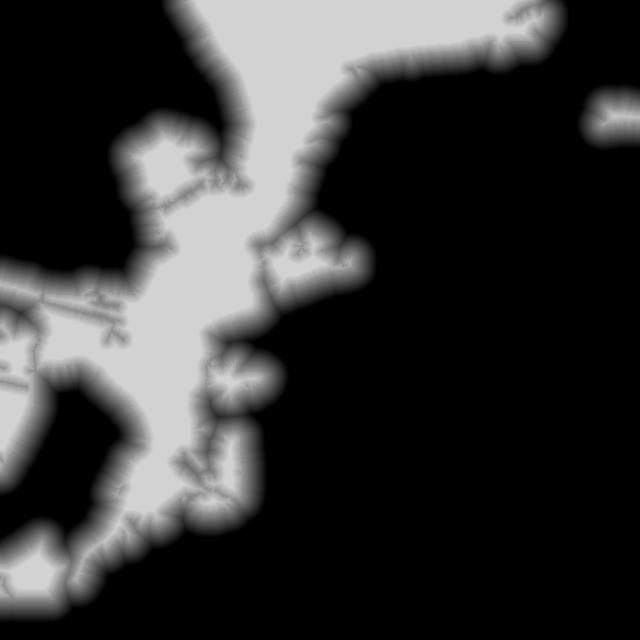
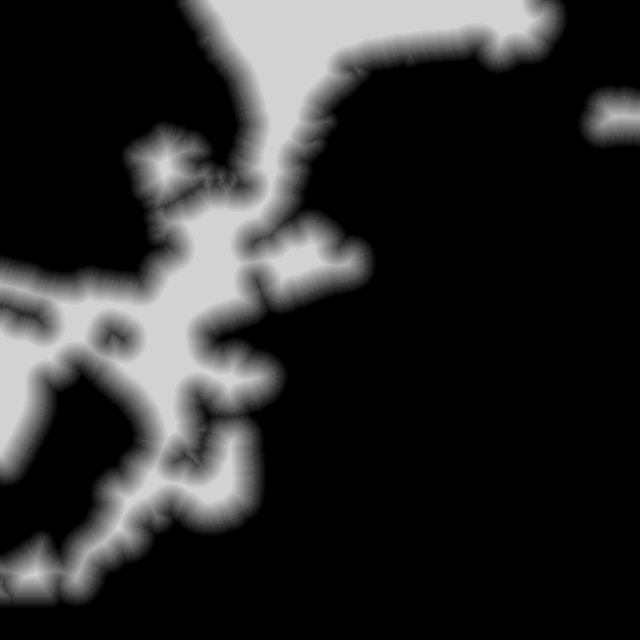
Kieler Förde: Küste näher am Original (nur zu schmale Stellen verbreitert), Marken und Stege neu gesetzt
Claude-Session: https://claude.ai/code/session_01CYKFT46nVq6NPqsP2qzNXm

diff --git a/tools/chart_to_depth.py b/tools/chart_to_depth.py
@@ -63,12 +63,27 @@ w = water[yy, xx]
 outside = (ys[:, None] >= H) | (xs[None, :] >= W) | (ys[:, None] < 0) | (xs[None, :] < 0)
 w = np.where(outside, False, w)
 
-# Wasserwege verbreitern: Land um "erode" Meter zurückziehen
+# Nur zu schmale Wasserwege verbreitern (Enge, Kanäle), breite Buchten behalten die Küste der Karte:
+# Was beim Öffnen mit einer Scheibe von min_width Durchmesser verschwindet, ist zu schmal.
+e = cfg.get("erode", 0.0)
+min_w = cfg.get("min_width", 70.0)
+def disk(r_cells):
+    r = int(round(r_cells))
+    yy, xx = np.mgrid[-r:r + 1, -r:r + 1]
+    return (xx * xx + yy * yy) <= r * r
+if e > 0.0:
+    wide = ndi.binary_opening(w, structure=disk(min_w * 0.5 / cell))
+    narrow = w & ~wide
+    nl, nn = ndi.label(narrow)
+    if nn:
+        sizes = ndi.sum(np.ones_like(nl), nl, index=np.arange(1, nn + 1))
+        keep = np.isin(nl, [i + 1 for i, sz in enumerate(sizes) if sz > 350])
+    else:
+        keep = narrow
+    w = w | (ndi.binary_dilation(keep, structure=disk(e / cell)) & ~w & ndi.binary_dilation(w, structure=disk(e / cell)))
 dist_land = ndi.distance_transform_edt(w) * cell        # Abstand zum Land (Wasserzellen)
 dist_water = ndi.distance_transform_edt(~w) * cell      # Abstand zum Wasser (Landzellen)
-e = cfg.get("erode", 0.0)
-sd = np.where(w, dist_land + e, -(dist_water - e))      # vorzeichenbehaftet: + Wasser, - Land
-sd = np.where(~w & (dist_water <= e), np.abs(dist_water - e) * 0 + (e - dist_water), sd)
+sd = np.where(w, dist_land, -dist_water)                # vorzeichenbehaftet: + Wasser, - Land
 slope = cfg.get("slope", 0.1)                           # Meter Tiefe je Meter Abstand
 depth = -0.8 + sd * slope
 depth = np.clip(depth, -8.0, cfg.get("max_depth", 14.0))

diff --git a/docs/skripte/werkzeuge.md b/docs/skripte/werkzeuge.md
@@ -119,7 +119,7 @@ Siehe [Klang](klang.md#tools-make-audio-py).
 |---|---|
 | `tools/export_dehler.py` | zerlegt das Blender-Modell „Dehler 31“ in vier `.glb`: Rumpf, Großsegel mit Baum, Fock, Pinne mit Ruder. Der Drehpunkt (`ORIGIN`) ist der Root-Knochen des Rigs. |
 | `tools/build_tug.py` | baut den stilisierten Schlepper aus Primitiven und exportiert `models/tug.glb` |
-| `tools/chart_to_depth.py` | wandelt eine Seekarte (Bild) in den Seegrund eines Levels um (Land/Wasser nach Farbe, Küstenabstand → Tiefe); Parameter in `tools/kiel_chart.json`, Ergebnis `levels/data/kiel_foerde_tiefe.png` |
+| `tools/chart_to_depth.py` | wandelt eine Seekarte (Bild) in den Seegrund eines Levels um (Land/Wasser nach Farbe, nur zu schmale Wasserwege verbreitert, Küstenabstand → Tiefe); Parameter in `tools/kiel_chart.json`, Ergebnis `levels/data/kiel_foerde_tiefe.png` |
 | `tools/build_ships.py` | baut die drei Berufsschiffe (Loft-Rumpf, Aufbauten, Ladung, Schaumstreifen) und schreibt `models/ship_*.glb` sowie die Rumpfkontur `models/ship_hulls.json` |
 
 Die Skripte laufen **in Blender** (`blender --background --python tools/build_tug.py -- models/tug.glb`, `blender --background --python tools/build_ships.py -- models`). Ohne Blender-Installation geht es auch mit dem Python-Modul: `pip install bpy` und dann `python tools/build_ships.py models`.

diff --git a/README.md b/README.md
@@ -164,7 +164,7 @@ mit dem PC verbunden ist. Ein einzelner Joy-Con reicht: Stick lenkt, die Schulte
 | 5 | Lotsenrinne | Kreuzen im betonnten Fahrwasser zwischen zwei Sandbänken, Ebbstrom, **Berufsschifffahrt**: Frachter und Tanker, denen man ausweichen muss |
 | 6 | Schärengarten | bewaldete Schären, Klippen, zwei Sunde mit Strömung, böiger Wind, Tankstelle auf Granholm, Sirenen-Insel im Süden |
 | 7 | Flussregatta | Binnenrevier: den Mühlenfluss gegen den Strom hinauf in den Großen See und zurück |
-| 8 | Kieler Förde | Strecke von A nach B: von der Schwentinemündung durch die Friedrichsorter Enge (Leuchtturm, U-Boot-Ehrenmal) bis zum Olympiahafen Schilksee, mit Ostseekai, Düsternbrook, Tirpitzmole, NOK Holtenau, Marine-Ehrenmal Laboe und Berufsschifffahrt zwischen NOK und Ostsee, knackiger Westwind |
+| 8 | Kieler Förde | Strecke von A nach B: von der Schwentinemündung durch die Friedrichsorter Enge (Leuchtturm, U-Boot-Ehrenmal) bis zum Olympiahafen Schilksee, mit Ostseekai, Düsternbrook, Tirpitzmole, NOK Holtenau, Marine-Ehrenmal Laboe und Berufsschifffahrt zwischen NOK und Ostsee, knackiger Westwind, Küste nach der echten Seekarte |
 
 ---
 

diff --git a/docs/spielen/karten.md b/docs/spielen/karten.md
@@ -58,8 +58,8 @@ Sechs bewaldete Inseln. Die **Tankstelle** steht auf der Nordseite von Granholm 
 ![Karte Kieler Förde](../bilder/karte_08_kieler_foerde.png)
 
 Küste und Wassertiefe stammen aus der echten Seekarte „Kieler Förde“ (Nautic Publications S2,
-1 : 40 000), etwa 1 : 11 gestaucht und mit 28 m verbreiterten Wasserwegen, damit sie spielbar
-sind. Norden ist oben. **Unten links** liegt die Südspitze Hörn mit dem Kreuzfahrtterminal
+1 : 40 000), etwa 1 : 11 gestaucht. Die Küste der Karte bleibt erhalten, nur zu schmale Stellen (die
+Enge, Kanäle, die Südspitze) sind um bis zu 26 m verbreitert, damit sie spielbar sind. Norden ist oben. **Unten links** liegt die Südspitze Hörn mit dem Kreuzfahrtterminal
 Ostseekai, daneben im Osten die **Schwentinemündung** mit dem Marine-Arsenal (Start). Am Westufer
 folgen von unten nach oben Düsternbrooker Hafen, Tirpitzmole und die **NOK-Schleuse Holtenau**
 mit dem Kanal, der nach links aus der Karte läuft. Dann kommt die **Friedrichsorter Enge**: von
